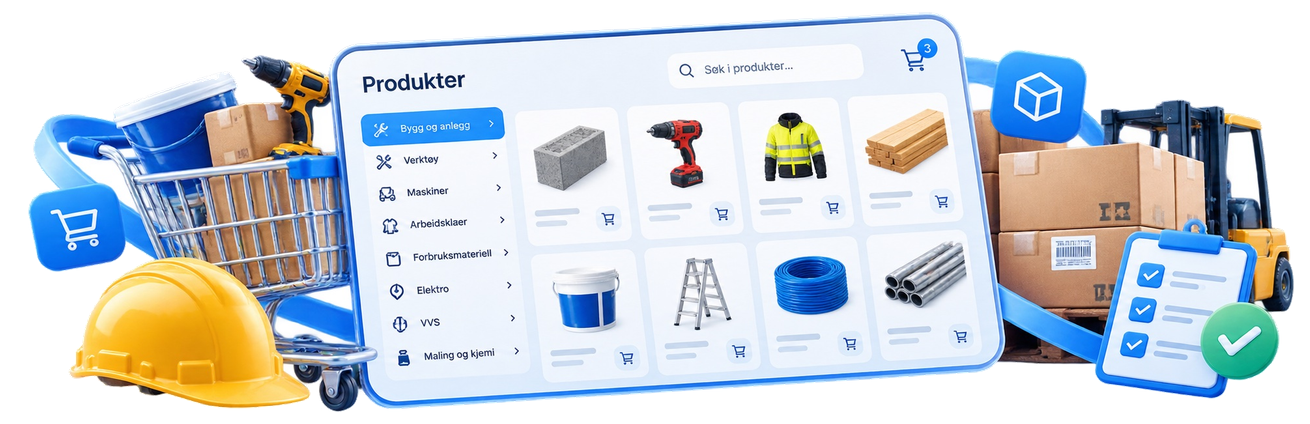
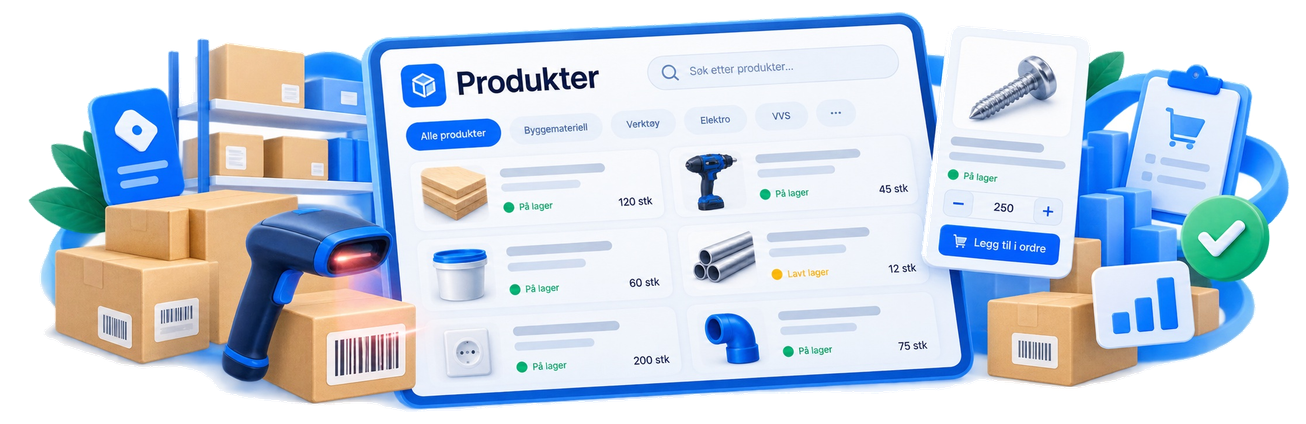
Vis den nye produkt-illustrasjonen i heading-båndet.

diff --git a/screens/economy/EconomyOps.jsx b/screens/economy/EconomyOps.jsx
@@ -187,7 +187,8 @@ export default function EconomyOps({ kind = 'expenses' }) {
       ) : null}
       {kind === 'products' ? (
         <Text style={{ color: colors.muted, fontSize: 13, maxWidth: 720 }}>
-          Produktkatalog og stykk-salg mot kunde/prosjekt. Godkjente linjer havner i Fakturagrunnlag.
+          {hostedHero ? '' : 'Produktkatalog og stykk-salg mot kunde/prosjekt. '}
+          Godkjente linjer havner i Fakturagrunnlag.
         </Text>
       ) : null}
 

diff --git a/src/modules/companyHero.js b/src/modules/companyHero.js
@@ -343,8 +343,8 @@ export const COMPANY_HERO = {
     kicker: t('Økonomi', 'Finance'),
     title: t('Produkter', 'Products'),
     pitch: t(
-      'Varer og salg som hører til økonomien.',
-      'Products and sales that belong in finance.',
+      'Produktkatalog og stykk-salg mot kunde og prosjekt.',
+      'Product catalog and unit sales for customers and projects.',
     ),
   },
   'okonomi-indeks': {
